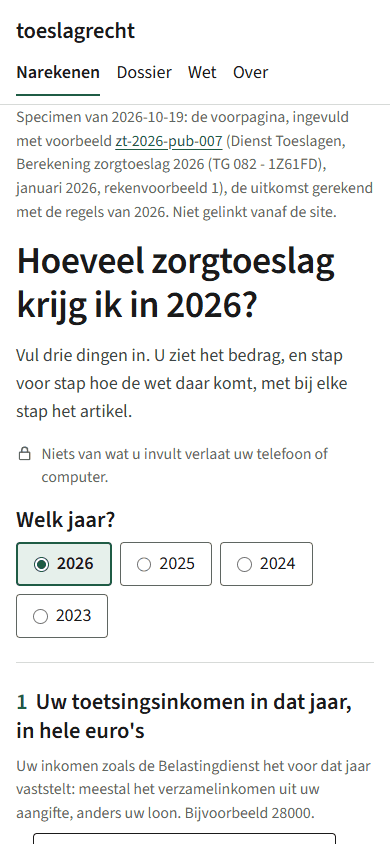
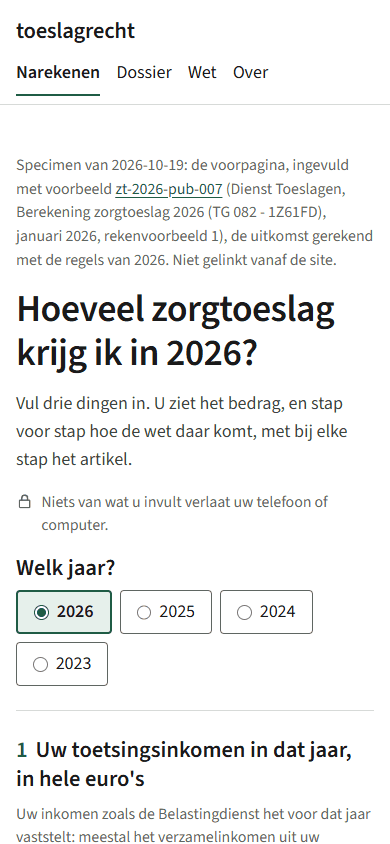
design: wider space between the menu and the page title on every page (token --kop-ruimte; owner, 2026-10-20)
The .pagina padding had overridden the main top padding to zero. Now main.pagina uses --kop-ruimte
(4.5rem, 3rem under 720px). Screenshots refreshed.

diff --git a/site/static/tokens.css b/site/static/tokens.css
@@ -38,6 +38,7 @@
   --page-wide: 1040px;       /* dossier index pages may use it */
   --gutter: 1.5rem;          /* 1rem under 400px */
   --s-1: 0.5rem; --s-2: 1rem; --s-3: 1.5rem; --s-4: 2rem; --s-5: 3rem; --s-6: 4rem;
+  --kop-ruimte: 4.5rem;      /* the space between the menu's hairline and the page title; owner, 2026-10-20 */
   --radius: 4px;
   --target: 44px;            /* minimum height of anything tappable; WCAG 2.2 asks 24, the form gets 44 */
   --hairline: 1px;
@@ -52,4 +53,5 @@
   --pad-knop: 1.75rem;       /* the button's side padding (28px) */
   --mono: ui-monospace, 'Cascadia Mono', Consolas, monospace;   /* code in the dossier only */
 }
+@media (max-width: 720px) { :root { --kop-ruimte: 3rem; } }
 @media (max-width: 400px) { :root { --gutter: 1rem; } }

diff --git a/site/static/site.css b/site/static/site.css
@@ -20,7 +20,7 @@ body { margin: 0; background: var(--paper); color: var(--ink); font-size: var(--
   line-height: var(--leading); hyphens: manual; overflow-wrap: break-word; }
 @media (max-width: 720px) { body { hyphens: auto; } }
 .pagina { max-width: var(--page); margin: 0 auto; padding: 0 var(--gutter); }
-main { display: block; padding: var(--s-5) 0 var(--s-4); }
+main.pagina { display: block; padding-top: var(--kop-ruimte); padding-bottom: var(--s-4); }
 a { color: var(--green); text-decoration: underline; text-underline-offset: var(--underline-offset); }
 a:hover { color: var(--green-ink); }
 :focus-visible { outline: var(--outline) solid var(--focus); outline-offset: var(--outline-offset); }
